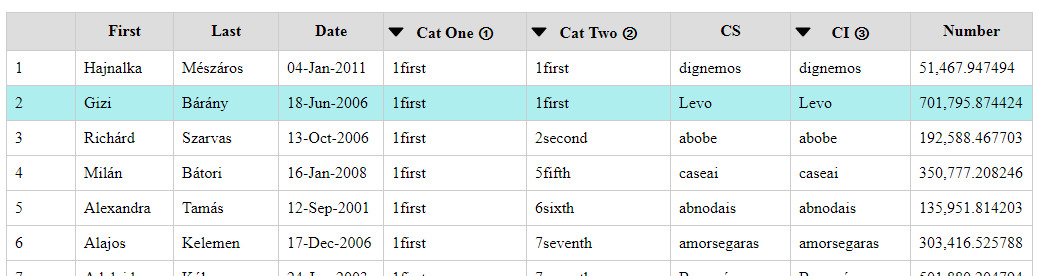
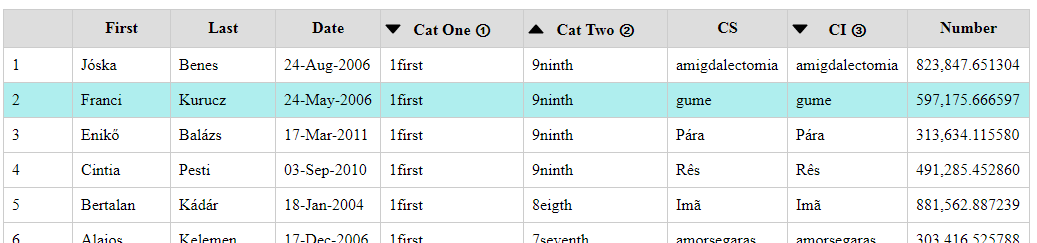
Adding the screenshot

diff --git a/README.md b/README.md
@@ -1,6 +1,10 @@
 # tableSorterMulti
 tableSorterMulti is a jQuery plugin that allows an html table to be sorted by clicking on its header cells. Multiple columns can be sorted in order.
 ![ScreenShot](img/read-me/screenshot-one.png)
+- the first level of sorting is cat one (ascending) 
+- the second level of sorting is cat one (descending) 
+- the third level of sorting is CI (case insensitive)(ascending)
+
 ## Prepare the html table 
 - Add 'sorter-header' class to table header row (tr) and classes: 'no-sort', 'is-date', 'is-number' and 'case-sensitive' to the header cells (th) to indicate how to sort the columns. Case insensitive is the default. 
 - Note that you cannot use your own classes that have names with 'sort-' in the header cells (th) since these classes will be removed by the plugin.
